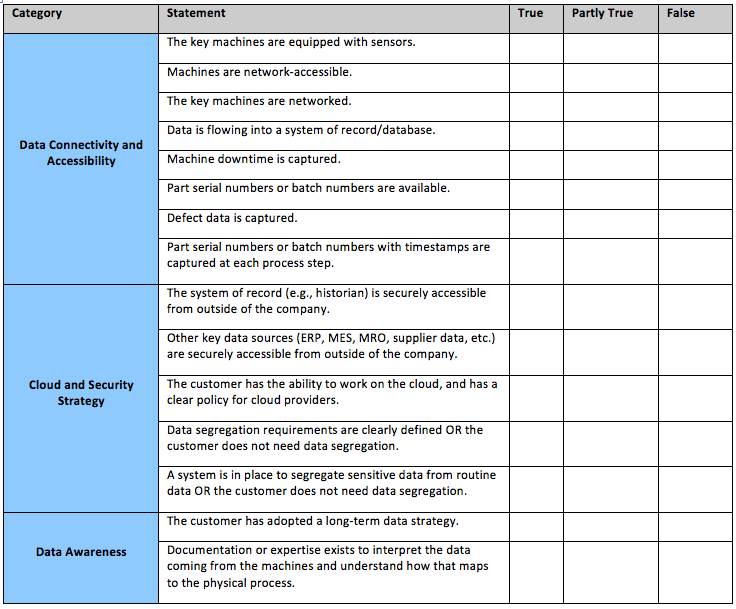
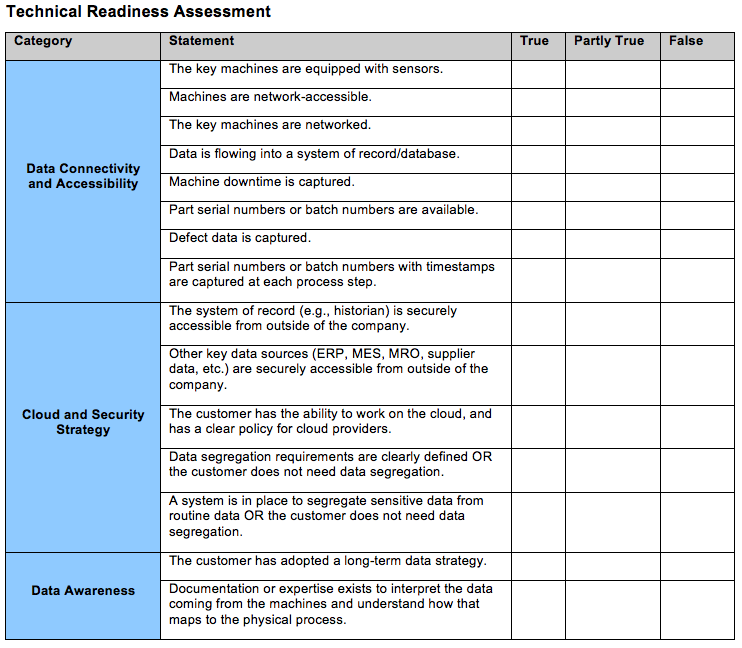
Updates understanding-the-digital-readiness-index/understanding-the-technical-readiness-axis.md
Auto commit by GitBook Editor

Changed region(s): [[0.0, 0.0, 1.0, 0.9984], [0.9688, 0.6864, 1.0, 0.7176]]

diff --git a/understanding-the-digital-readiness-index/understanding-the-organizational-readiness-axis.md b/understanding-the-digital-readiness-index/understanding-the-organizational-readiness-axis.md
@@ -12,8 +12,6 @@ Organizational Readiness consists of three categories:
 
 To determine a customer’s readiness from an organizational standpoint, complete the following assessment with the necessary stakeholders.
 
-**Organizational Readiness Assessment**
-
 ![](/understanding-the-digital-readiness-index/Organizational Readiness Assessment.png)
 
 Considering the responses to the assessment, you can determine how prepared the customer is organizationally, and suggest appropriate next steps. For more information, see [Managing Customer Expectations](/understanding-the-digital-readiness-index/managing-customer-expectations.md).

diff --git a/understanding-the-digital-readiness-index/understanding-the-technical-readiness-axis.md b/understanding-the-digital-readiness-index/understanding-the-technical-readiness-axis.md
@@ -12,8 +12,6 @@ Technical Readiness consists of three categories:
 
 To determine a customer’s technical readiness, complete the following assessment with the necessary stakeholders.
 
-**Technical Readiness Assessment**
-
 ![](/understanding-the-digital-readiness-index/Technical Readiness Assessment.png)
 
 Considering the responses to the assessment, you can determine how prepared the customer is technologically, and suggest appropriate next steps. For more information, see [Managing Customer Expectations](/understanding-the-digital-readiness-index/managing-customer-expectations.md).
